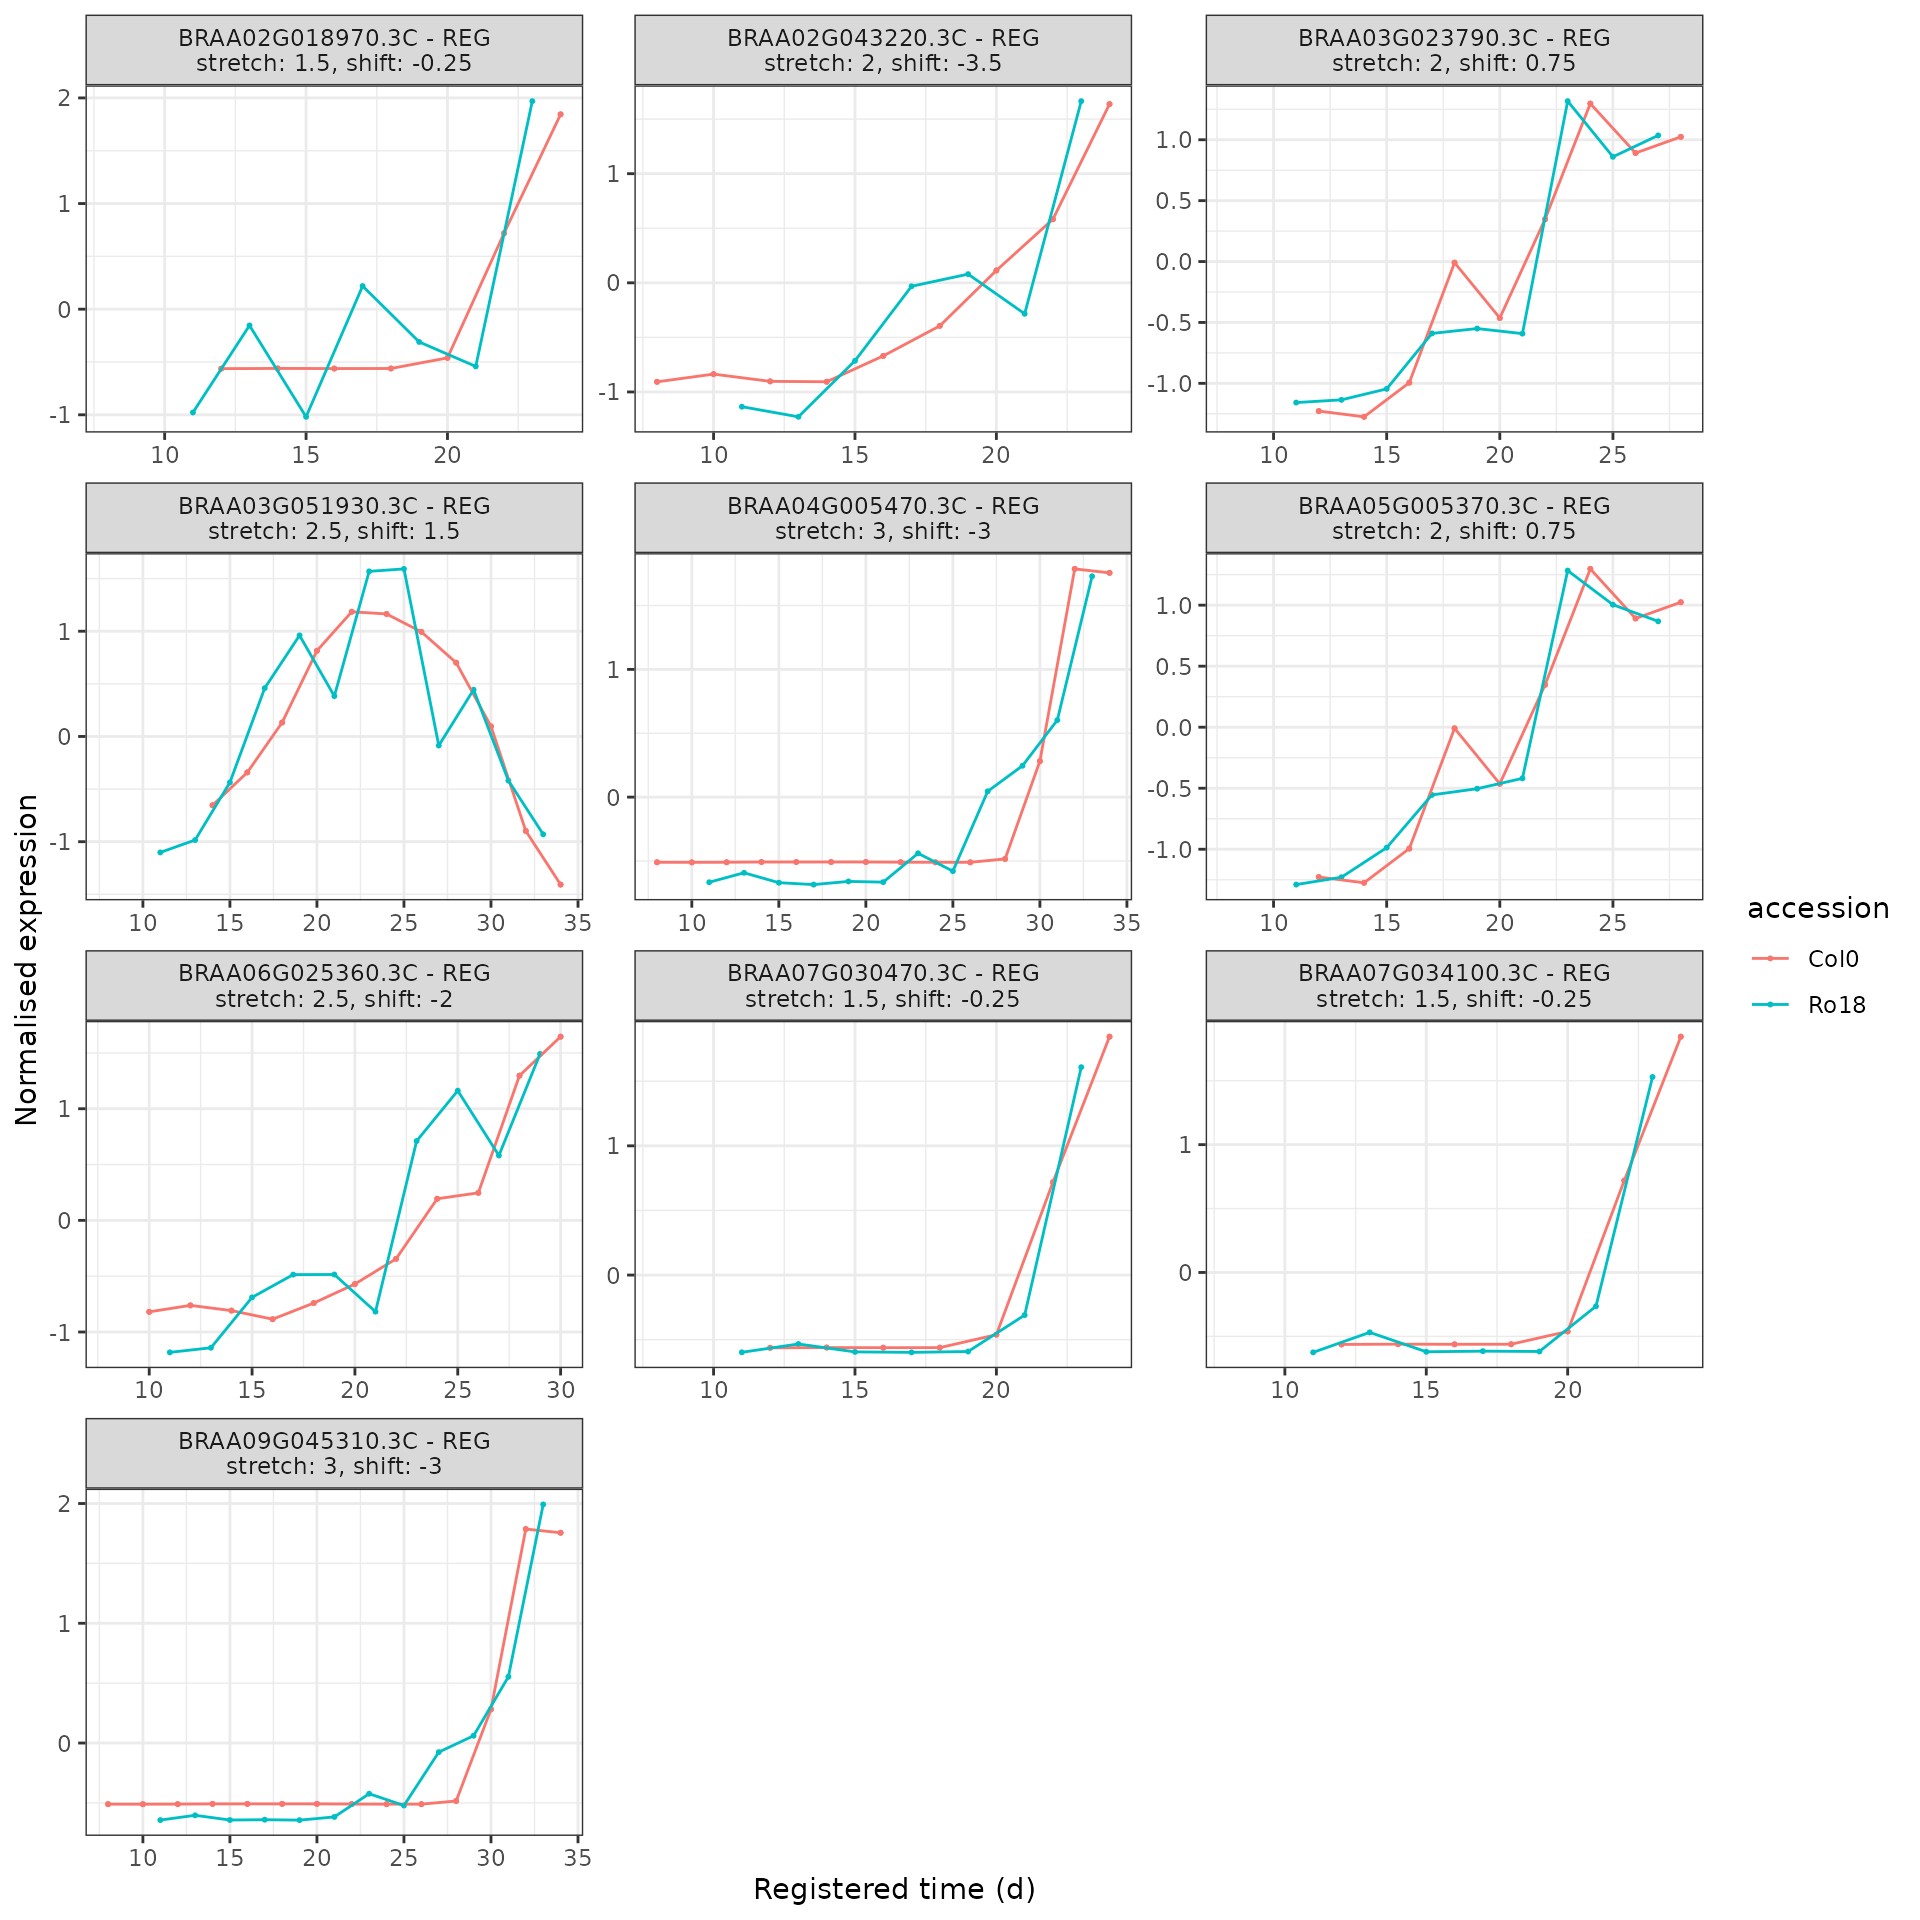
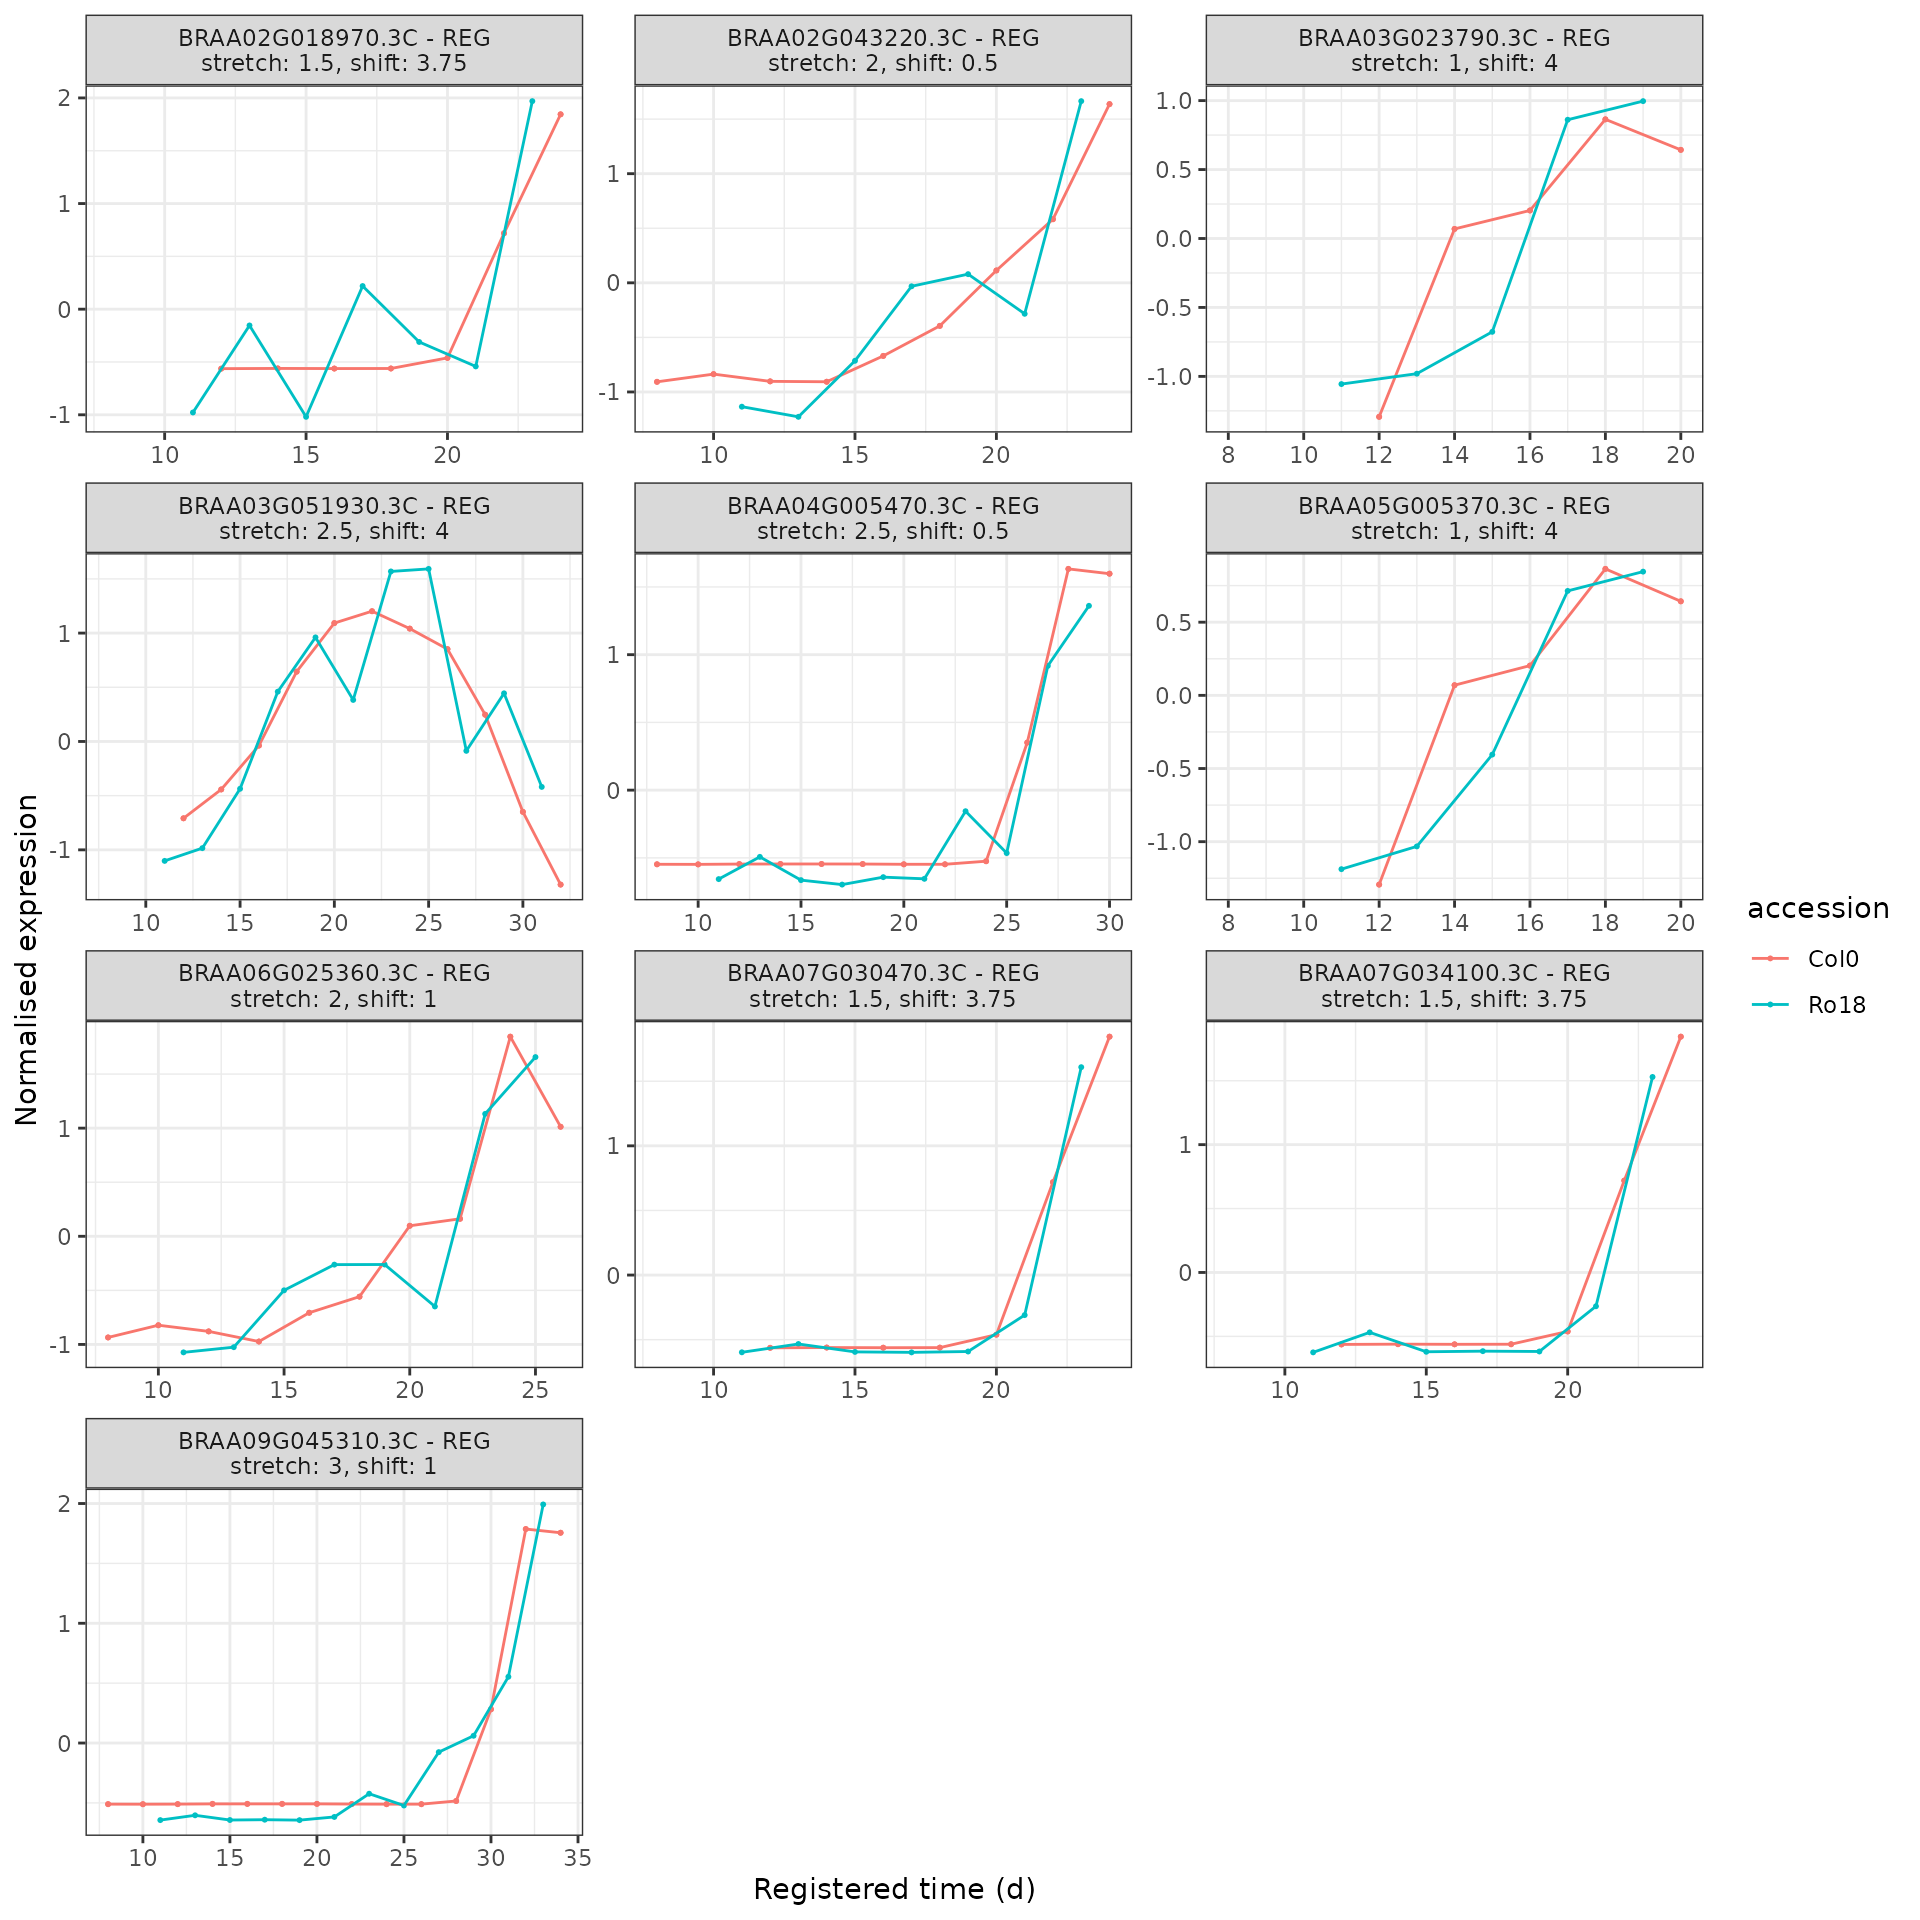
Built site for greatR: 0.2.0@9230b68

diff --git a/articles/visualise-results.html b/articles/visualise-results.html
@@ -137,20 +137,20 @@
 </tr>
 <tr class="even">
 <td align="left">Stretch</td>
-<td align="left">1.5, 2, 2.5, 3</td>
+<td align="left">1, 1.5, 2, 2.5, 3</td>
 </tr>
 <tr class="odd">
 <td align="left">Shift</td>
-<td align="left">[-3.5, 1.5]</td>
+<td align="left">[0.5, 4]</td>
 </tr>
 </tbody>
 </table>
 <p>The list of gene accessions which were registered can be viewed by calling:</p>
 <div class="sourceCode" id="cb2"><pre class="downlit sourceCode r">
 <code class="sourceCode R"><span><span class="va">all_summary</span><span class="op">$</span><span class="va">registered_genes</span></span>
-<span><span class="co">#&gt;  [1] "BRAA04G005470.3C" "BRAA09G045310.3C" "BRAA03G051930.3C" "BRAA06G025360.3C"</span></span>
-<span><span class="co">#&gt;  [5] "BRAA02G043220.3C" "BRAA03G023790.3C" "BRAA05G005370.3C" "BRAA02G018970.3C"</span></span>
-<span><span class="co">#&gt;  [9] "BRAA07G030470.3C" "BRAA07G034100.3C"</span></span></code></pre></div>
+<span><span class="co">#&gt;  [1] "BRAA09G045310.3C" "BRAA03G051930.3C" "BRAA04G005470.3C" "BRAA02G043220.3C"</span></span>
+<span><span class="co">#&gt;  [5] "BRAA06G025360.3C" "BRAA02G018970.3C" "BRAA07G030470.3C" "BRAA07G034100.3C"</span></span>
+<span><span class="co">#&gt;  [9] "BRAA03G023790.3C" "BRAA05G005370.3C"</span></span></code></pre></div>
 </div>
 <div class="section level2">
 <h2 id="plot-registration-results">Plot registration results<a class="anchor" aria-label="anchor" href="#plot-registration-results"></a>
